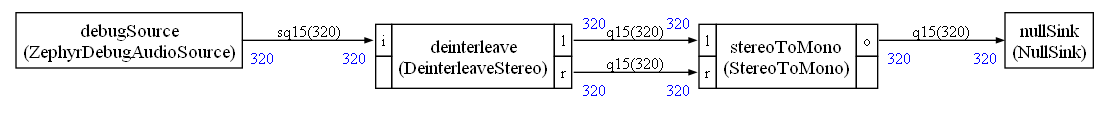
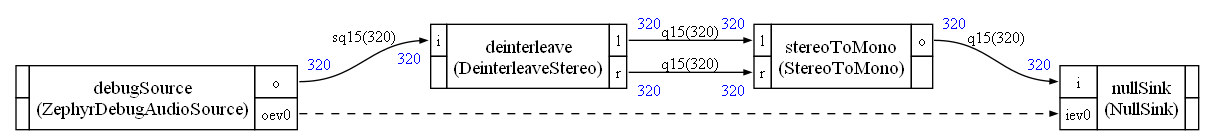
Added some events to test the event system. Reworked memory allocations. SRAM0 used for the memory pools. malloc used for std library allocations. (like std::vec in liding window) k_malloc for other allocations

diff --git a/src/stream.cpp b/src/stream.cpp
@@ -13,6 +13,7 @@
 extern "C" {
 #include "stream.h"
 #include "scheduler.h"
+
 }
 
 struct k_mem_slab cg_eventPool;
@@ -53,6 +54,14 @@ static struct k_thread interrupt_thread;
 static K_THREAD_STACK_DEFINE(interrupt_thread_stack, STACK_SIZE);
 static K_THREAD_STACK_DEFINE(event_thread_stack, STACK_SIZE);
 static K_THREAD_STACK_DEFINE(stream_thread_stack, STACK_SIZE);
+
+#define SRAM0_HEAP_SIZE 200000
+
+__aligned(8)
+__attribute__((section(".alif_sram0")))
+static uint8_t sram0_heap_area[SRAM0_HEAP_SIZE];
+
+static struct k_heap sram0_heap;
 
 using namespace arm_cmsis_stream;
 
@@ -111,12 +120,15 @@ err_main:
 
 int init_stream()
 {
+    /* Init sram0 heap */
+    k_heap_init(&sram0_heap, sram0_heap_area, SRAM0_HEAP_SIZE);
+    
     /* Init memory slabs */
     event_pool_buffer = nullptr;
     buf_pool_buffer = nullptr;
     mutex_pool_buffer = nullptr;
 
-    event_pool_buffer = k_malloc(NB_MAX_EVENTS * (sizeof(ListValue) + 16));
+    event_pool_buffer = k_heap_alloc(&sram0_heap, NB_MAX_EVENTS * (sizeof(ListValue) + 16),K_NO_WAIT);
     int err = k_mem_slab_init(&cg_eventPool, event_pool_buffer, sizeof(ListValue) + 16,NB_MAX_EVENTS);
     if (err != 0)
     {
@@ -124,7 +136,7 @@ int init_stream()
         return(err);
     }
 
-    buf_pool_buffer = k_malloc(NB_MAX_BUFS * (sizeof(Tensor<double>) + 16));
+    buf_pool_buffer = k_heap_alloc(&sram0_heap, NB_MAX_BUFS * (sizeof(Tensor<double>) + 16),K_NO_WAIT);
     err = k_mem_slab_init(&cg_bufPool, buf_pool_buffer, sizeof(Tensor<double>) + 16,NB_MAX_BUFS);
     if (err != 0)
     {
@@ -132,7 +144,7 @@ int init_stream()
         return(err);
     }
 
-    mutex_pool_buffer = k_malloc(NB_MAX_BUFS * (sizeof(CG_MUTEX) + 16));
+    mutex_pool_buffer = k_heap_alloc(&sram0_heap, NB_MAX_BUFS * (sizeof(CG_MUTEX) + 16),K_NO_WAIT);
     err = k_mem_slab_init(&cg_mutexPool, mutex_pool_buffer, sizeof(CG_MUTEX) + 16,NB_MAX_BUFS);
     if (err != 0)
     {
@@ -178,10 +190,5 @@ int init_stream()
 
 void deinit_stream()
 {
-   if (event_pool_buffer)
-      k_free(event_pool_buffer);
-   if (buf_pool_buffer)
-      k_free(buf_pool_buffer);
-   if (mutex_pool_buffer)
-      k_free(mutex_pool_buffer);
+   
 }

diff --git a/src/stream/cpp/nodes/ZephyrDebugAudioSource.hpp b/src/stream/cpp/nodes/ZephyrDebugAudioSource.hpp
@@ -19,7 +19,7 @@ class ZephyrDebugAudioSource<sq15, outputSamples> : public GenericSource<sq15, o
 {
     public:
     ZephyrDebugAudioSource(FIFOBase<sq15> &dst,int master=1)
-        : GenericSource<sq15, outputSamples>(dst), master_(master)
+        : GenericSource<sq15, outputSamples>(dst), nb_frame_(0),master_(master)
     {
         // Initialization code for debug audio source
     };
@@ -37,7 +37,8 @@ class ZephyrDebugAudioSource<sq15, outputSamples> : public GenericSource<sq15, o
     int run() final
     {
         sq15 *out = this->getWriteBuffer();
-        printf("AUDIO SOURCE RUNNING\n");
+        nb_frame_++;
+        ev.sendSync(cg_event_priority::kNormalPriority, kValue,nb_frame_);
 
         for (int i = 0; i < outputSamples; i++)
         {
@@ -49,6 +50,15 @@ class ZephyrDebugAudioSource<sq15, outputSamples> : public GenericSource<sq15, o
         return(CG_SUCCESS);
     }
 
+    void subscribe(int outputPort, StreamNode &dst, int dstPort) final override
+    {
+        if (outputPort == 0)
+           ev.subscribe(dst, dstPort);
+    }
+
 protected:
+    uint32_t nb_frame_;
     int master_;
+    EventOutput ev;
+
 };

diff --git a/src/stream/cpp/appnodes/DebugSource.hpp b/src/stream/cpp/appnodes/DebugSource.hpp
@@ -149,9 +149,16 @@ class DebugSource : public GenericSource<OUT, outputSamples>
         else {
             static_assert(false, "Unsupported type");
         }
+        ev.sendSync(0, Event(CG_EVENT_DATA_READY));
 
         return (CG_SUCCESS);
     };
+
+    void subscribe(int outputPort, StreamNode &dst, int dstPort) final override
+    {
+        if (outputPort == 0)
+           ev.subscribe(dst, dstPort);
+    }
 
   protected:
     float32_t floatSignal[outputSamples];
@@ -162,4 +169,6 @@ class DebugSource : public GenericSource<OUT, outputSamples>
     float32_t phaseAmp = 0.0f;
     float32_t deltaPhaseAmp = 0.0f;
     bool master_;
+
+    EventOutput ev;
 };

diff --git a/src/stream/cpp/custom.hpp b/src/stream/cpp/custom.hpp
@@ -165,7 +165,6 @@ class ZephyrLock
         cgStaticError = CG_BUFFER_OVERFLOW;                                                                                \
         goto errorHandling;                                                                                                \
     }                                                                                                                      \
-    printf("%d\n",ID);                                                                                                     \
 }                                                                                                                          
 
 

diff --git a/src/stream/cpp/nodes/NullSink.hpp b/src/stream/cpp/nodes/NullSink.hpp
@@ -46,5 +46,25 @@ class NullSink: public GenericSink<OUT, outputSamples>
         return (CG_SUCCESS);
     };
 
+    void processValue(uint32_t v)
+    {
+       DEBUG_PRINT("NullSink received value: %u\n", v);
+    }
+
+    void processEvent(int dstPort, Event &&evt) final override
+    {
+        if (dstPort == 0)
+        {
+            if (evt.event_id == kValue)
+            {
+                if (evt.wellFormed<uint32_t>())
+                {
+                    evt.apply<uint32_t>(&NullSink::processValue, *this);
+                }
+            }
+        }
+    };
+
+
   
 };

diff --git a/src/stream/python/nodes/ZephyrDebugAudioSource.py b/src/stream/python/nodes/ZephyrDebugAudioSource.py
@@ -12,6 +12,7 @@ class ZephyrDebugAudioSource(GenericSource):
         # Stereo output
         self.addOutput("o",Q15_STEREO,outLength)
         self.addLiteralArg(1 if master else 0)
+        self.addEventOutput()
 
     @property
     def typeName(self):

diff --git a/src/stream/python/debug.py b/src/stream/python/debug.py
@@ -39,6 +39,8 @@ the_graph.connect(deinterleave.l,convert.l)
 the_graph.connect(deinterleave.r,convert.r)
 the_graph.connect(convert.o,nullSink.i)
 
+the_graph.connect(src["oev0"],nullSink["iev0"])
+
 
 #
 conf = Configuration()

diff --git a/src/stream/python/nodes/NullSink.py b/src/stream/python/nodes/NullSink.py
@@ -7,6 +7,7 @@ class NullSink(GenericSink):
         GenericSink.__init__(self,name)
         # Stereo output
         self.addInput("i",theType,outLength)
+        self.addEventInput()
 
     @property
     def typeName(self):

diff --git a/src/stream/scheduler/scheduler.cpp b/src/stream/scheduler/scheduler.cpp
@@ -232,6 +232,7 @@ int init_scheduler()
 
 
 /* Subscribe nodes for the event system*/
+    nodes.debugSource->subscribe(0,*nodes.nullSink,0);
 
     initError = CG_SUCCESS;
     initError = nodes.debugSource->init();

diff --git a/src/stream/scheduler/AppNodes.hpp b/src/stream/scheduler/AppNodes.hpp
@@ -1,4 +1,4 @@
 #include "nodes/StereoToMono.hpp"
-#include "nodes/DeinterleaveStereo.hpp"
 #include "nodes/ZephyrDebugAudioSource.hpp"
+#include "nodes/DeinterleaveStereo.hpp"
 #include "nodes/NullSink.hpp"
